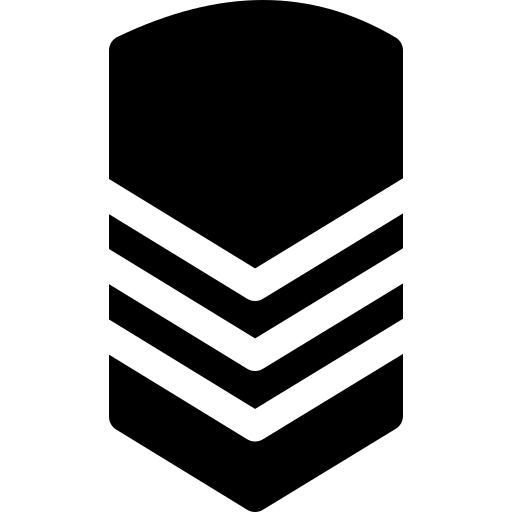
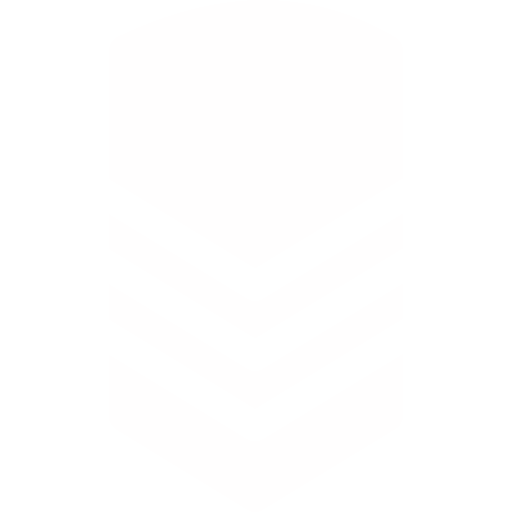
update

diff --git a/templates/core/index.html b/templates/core/index.html
@@ -12,16 +12,20 @@
 />
 <link
   rel="stylesheet"
-  href="https://livedemo00.template-help.com/landing_55112/css/style.css"
+  href="{% static 'css/index/style.css' %}"
 />
 <link
   rel="stylesheet"
-  href="https://livedemo00.template-help.com/landing_55112/css/google-map.css"
+  href="{% static 'css/index/subscribe.css' %}"
 />
-<link
+<!-- <link
+  rel="stylesheet"
+  href="https://livedemo00.template-help.com/landing_55112/css/style.css"
+/> -->
+<!-- <link
   rel="stylesheet"
   href="https://livedemo00.template-help.com/landing_55112/css/subscribe.css"
-/>
+/> -->
 <link
   rel="stylesheet"
   href="https://livedemo00.template-help.com/landing_55112/css/mailform.css"
@@ -44,45 +48,16 @@
     ========================================================
                                 HEADER
     ========================================================
-    
-    
     -->
   <header>
     <div class="container">
-<!-- 
-      <section class="splide" aria-label="Slide Container Example">
-        <h1 id="carousel-heading">
-          <a href="" class="nav-link">Usmilitiapride</a>
-        </h1>
-
-        <div class="splide__track">
-          <ul class="splide__list">
-            <li class="splide__slide">
-              <div class="splide__slide__container">
-                <img src="{% static 'images/bg-1.jpg' %}">
-              </div>
-              Lorem Ipsum Dolor Sit Amet
-            </li>
-            <li class="splide__slide">
-              <div class="splide__slide__container">
-                <img src="{% static 'images/bg-3.jpg' %}">
-              </div>
-              Lorem Ipsum Dolor Sit Amet
-            </li>
-          </ul>
-        </div>
-      </section> -->
-
-
       <div class="row">
         <div class="col-sm-6 col-md-7">
           <div class="brand">
-            <small class="brand_name">
-              <a href="landing_55112"
-                >Usmilitiapride
-                </a
-              >
-            </small>
+            <p style="font-size: 4rem;">Usmilitiapride</p>
+              <!-- <a href="landing_55112" class="brand_name"
+                >
+                </a> -->
             <p class="brand_slogan">United States Military</p>
           </div>
         </div>
@@ -264,42 +239,6 @@
       </section>
     </section>
 
-    <!-- <section class="well bg-image mobile-center">
-        <div class="container">
-          <div class="row">
-            <div class="col-md-10">
-              <h2>Protect Your Motherland,<span class="primary">Your Family, Your Beliefs.</span></h2>
-              <h5>Mes cuml dia sed ineniasinge dolor ipsum commete ipsum.<br/>Dolor ipsum commete ipsum comnetus Mes dolor.</h5>
-            </div>
-            <div class="col-md-2"><a href="landing_55112#" class="link fa-file-text mg-add"></a></div>
-          </div>
-        </div>
-      </section> -->
-
-    <!-- <section data-url="{% static 'images/us_1.webp' %}" data-mobile="true" class="well parallax how_to_join">
-        <div class="container">
-          <h2 class="center">How to Join</h2>
-          <ul class="index-list row">
-            <li class="col-md-6">
-              <h5><a href="landing_55112#">Mes cuml dia sed inenias ingerto ipsum Mes cuml dia sed.</a></h5>
-              <p>Dolore cuml dia sed in lacus ut eniascet inger es sitet amet eismod ictor ut ligulate ameti dapib ticdu nt mtsent dolor lte comme. Mes cumldi sed inertio. Lacus ut eniascet ingerto aliiqt sit amet eism odictor ipsum commete.</p>
-            </li>
-            <li class="col-md-6">
-              <h5><a href="landing_55112#">Mes cuml dia sed inenias ingerto ipsum Mes cuml dia sed.</a></h5>
-              <p>Dolore cuml dia sed in lacus ut eniascet inger es sitet amet eismod ictor ut ligulate ameti dapib ticdu nt mtsent dolor lte comme. Mes cumldi sed inertio. Lacus ut eniascet ingerto aliiqt sit amet eism odictor ipsum commete.</p>
-            </li>
-            <li class="col-md-6">
-              <h5><a href="landing_55112#">Mes cuml dia sed inenias ingerto ipsum Mes cuml dia sed.</a></h5>
-              <p>Dolore cuml dia sed in lacus ut eniascet inger es sitet amet eismod ictor ut ligulate ameti dapib ticdu nt mtsent dolor lte comme. Mes cumldi sed inertio. Lacus ut eniascet ingerto aliiqt sit amet eism odictor ipsum commete.</p>
-            </li>
-            <li class="col-md-6">
-              <h5><a href="landing_55112#">Mes cuml dia sed inenias ingerto ipsum Mes cuml dia sed.</a></h5>
-              <p>Dolore cuml dia sed in lacus ut eniascet inger es sitet amet eismod ictor ut ligulate ameti dapib ticdu nt mtsent dolor lte comme. Mes cumldi sed inertio. Lacus ut eniascet ingerto aliiqt sit amet eism odictor ipsum commete.</p>
-            </li>
-          </ul>
-        </div>
-      </section> -->
-
     <!-- <section class="well bg-image"> -->
       <div class="container my-5">
         <h2 class="center primary">Latest News</h2>
@@ -399,9 +338,13 @@
         <div class="col-xs-12 col-sm-6 col-md-6">
           <div class="brand">
             <h1 class="brand_name">
-              <a href="#"
+              <!-- <a href="#"
                 >Special<br />
                 Force</a
+              > -->
+              <a href="#"
+                >Usmilitiapride<br />
+                </a
               >
             </h1>
             <p class="brand_slogan">United States Military</p>

diff --git a/static/css/index/style.css b/static/css/index/style.css
@@ -171,15 +171,16 @@ h5+p {
 
 .brand:before {
     position: absolute;
-    top: 13px;
-    left: 0;
+    top: -200px;
+    left: 50%;
     content: "";
     display: inline-block;
     width: 169px;
     height: 169px;
     text-align: center;
     color: #fff;
-    background: #54bf83 url(../images/index/logo.webp);
+    background: #54bf83 url(/static/images/military-rank.png);
+    /* background: #54bf83 url(../images/index/logo.webp); */
     background-size: contain;
     -webkit-border-radius: 50%;
     -moz-border-radius: 50%;
@@ -203,7 +204,7 @@ h5+p {
 }
 
 .bg-image {
-    background: url(../images/index/page-1_bgimg02.webp);
+    background: url(/static/images/index/page-1_bgimg02.webp);
     background-size: cover;
     color: #fff
 }
@@ -536,9 +537,10 @@ h5+p {
 header {
     padding-top: 174px;
     padding-bottom: 183px;
-    background: url(../images/bg-2.jpg) center no-repeat;
+    background: url('/static/images/bg-3.jpg') center no-repeat;
     /* background: url(../images/page-1_bgimg01.jpg) center no-repeat; */
     background-size: cover;
+    background-position: center;
     color: #fff
 }
 
@@ -629,7 +631,7 @@ main h5 br {
 footer {
     padding-top: 212px;
     padding-bottom: 176px;
-    background: url(../images/page-1_bgimg02.jpg) center no-repeat;
+    background: url(/static/images/bg-1.jpg) center no-repeat;
     background-size: cover
 }
 
